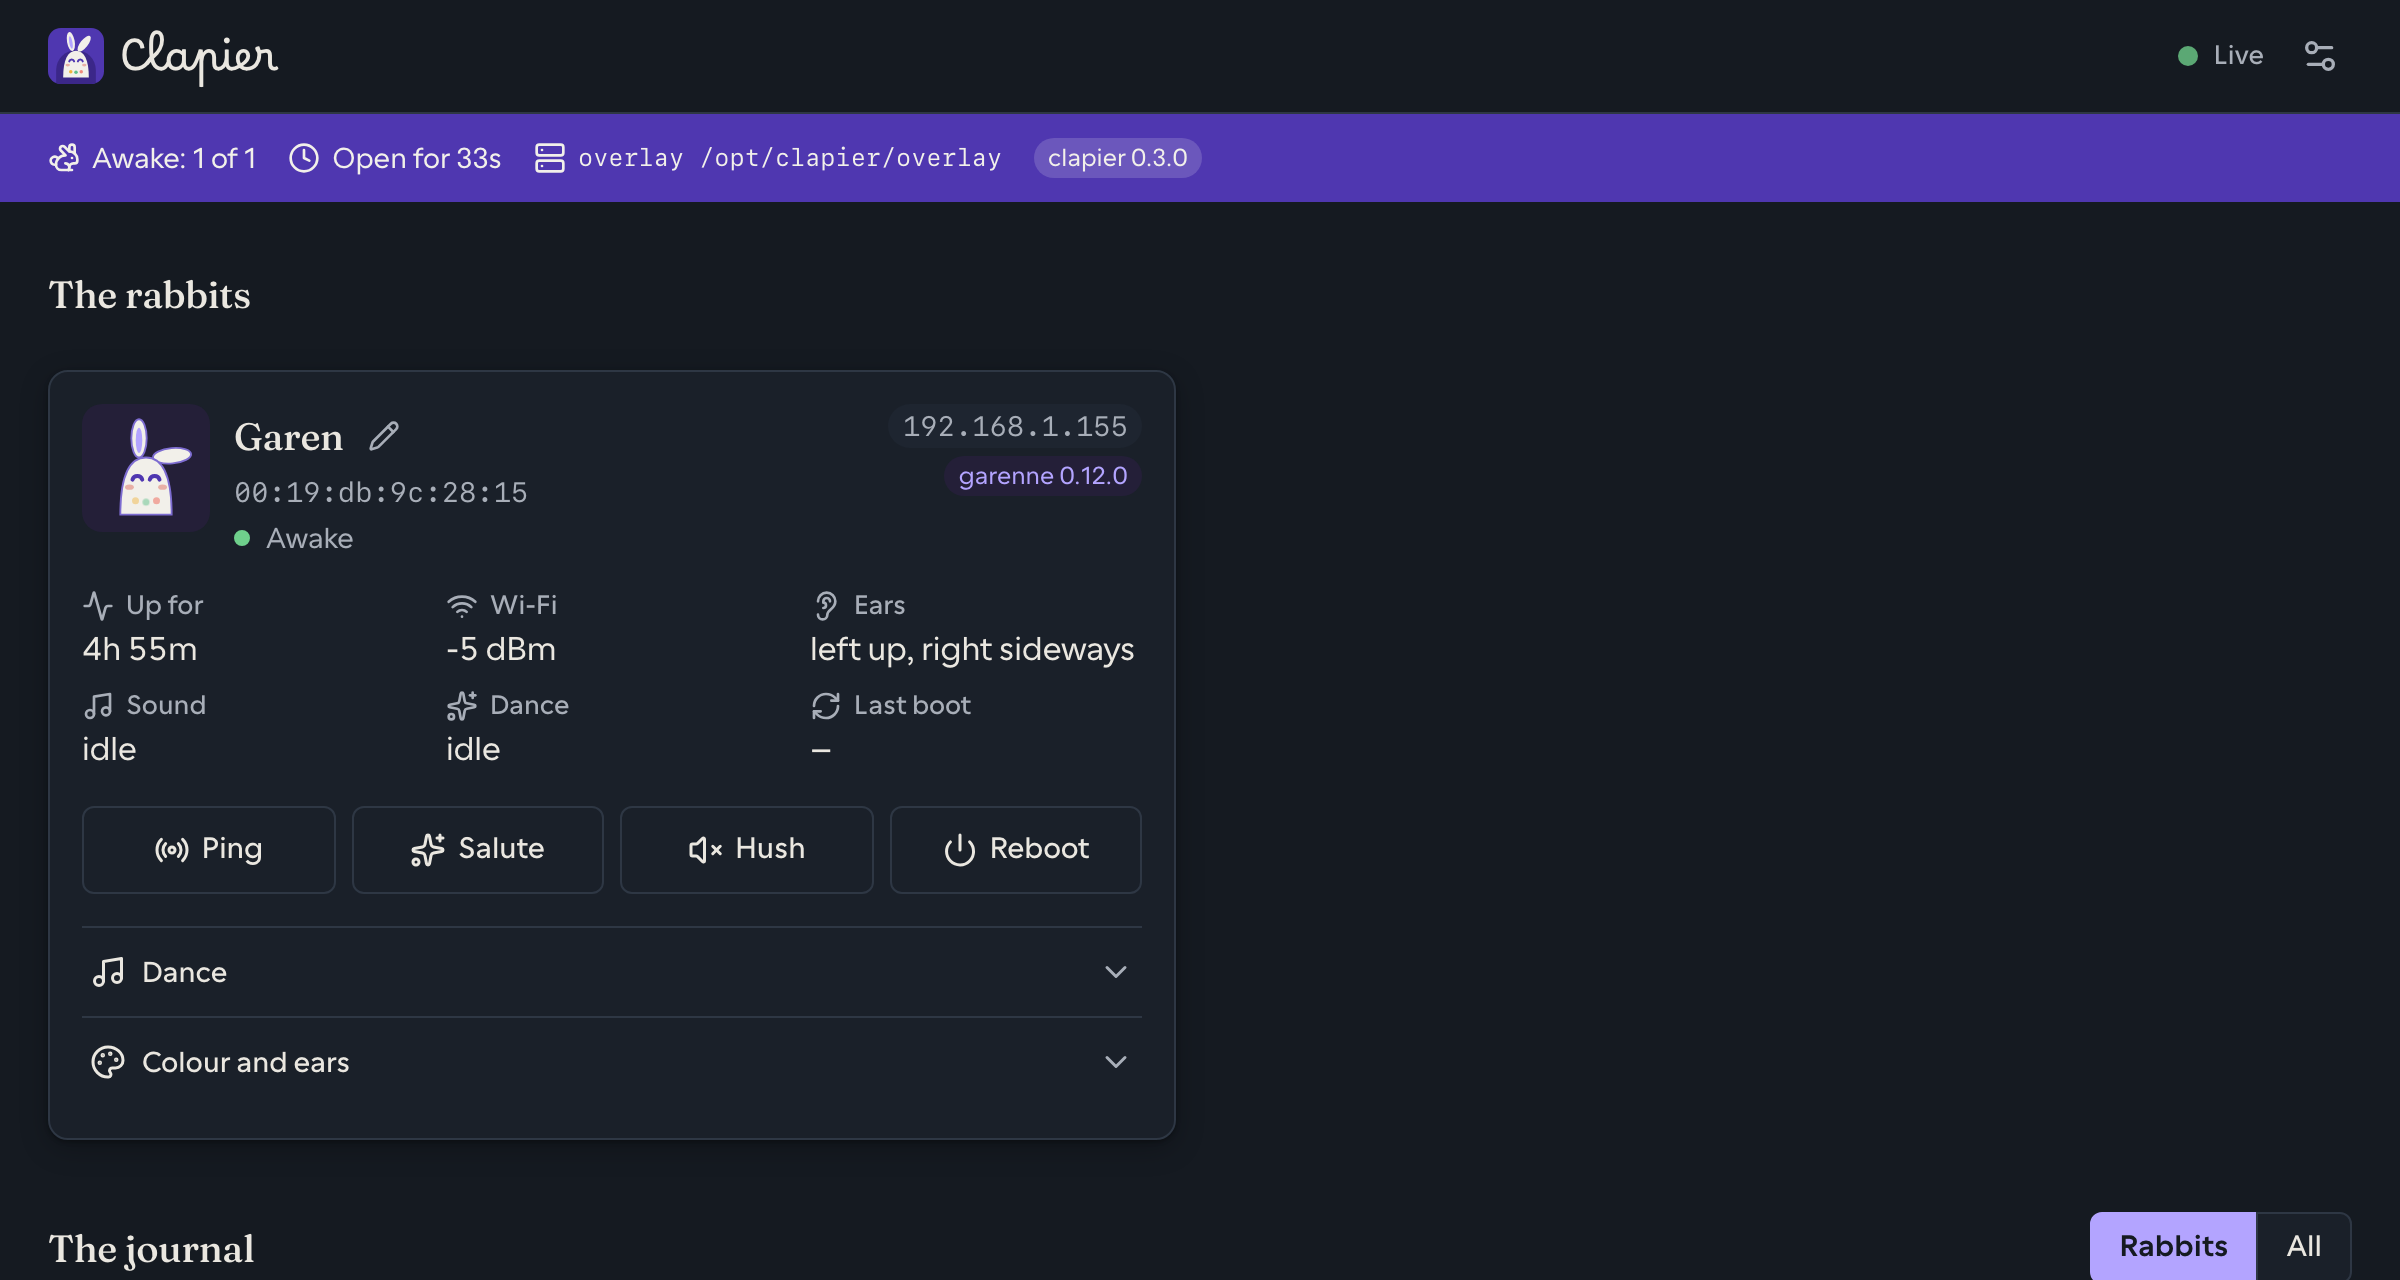
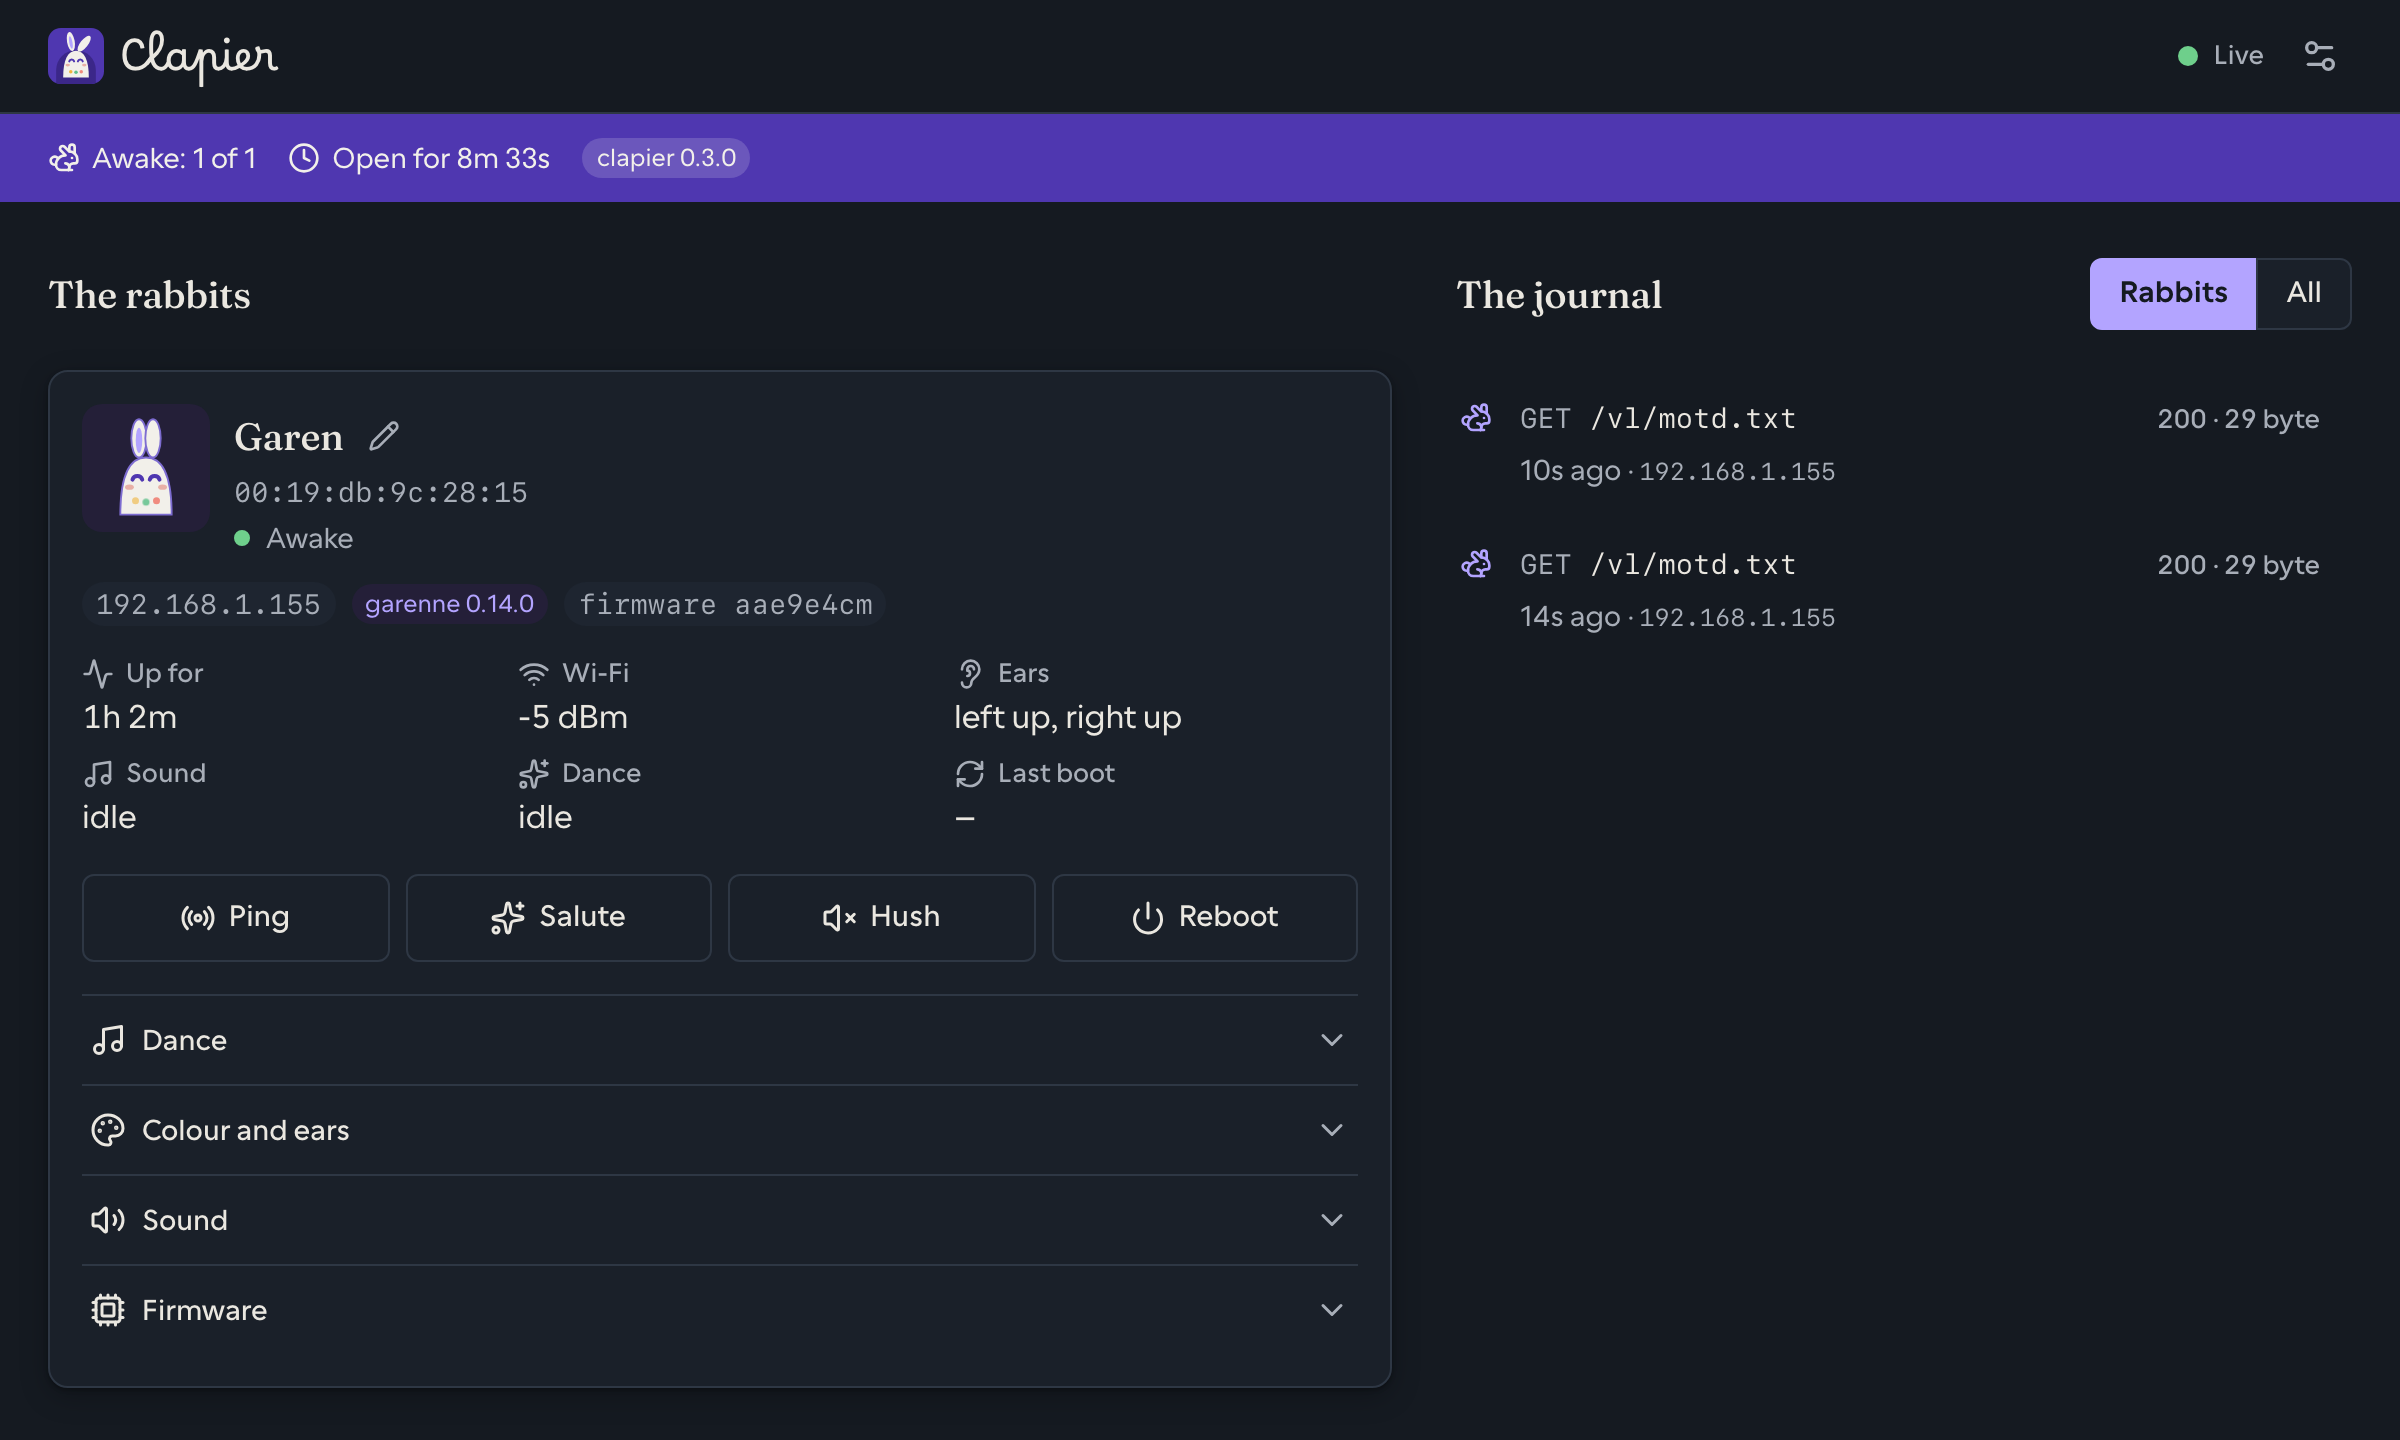
docs: the README, whole, and its screenshots
What the burrow does now: the web app section by section, firmware over
the air (from the tile, and by hand), moving a rabbit to another
clapier, the rabbit remote's verbs, and where the burrow keeps its
files. Fresh screenshots of the two-column screen, light and dark.

diff --git a/README.md b/README.md
@@ -7,38 +7,150 @@
 
 The rabbits' home: one binary serves a Nabaztag:tag its brain, its
 sounds and its dances, and gives you a web app to watch and drive the
-whole burrow. Pairs with the [uplg/nabgcc](https://github.com/uplg/nabgcc)
-`wpa23-gtk` firmware, which teaches the 2006 rabbit WPA2/WPA3.
+whole burrow: gestures, colours, ears, sounds, and its firmware,
+updated over the network it already lives on. Pairs with the
+[uplg/nabgcc](https://github.com/uplg/nabgcc) firmware, which teaches
+the 2006 rabbit WPA2/WPA3.
 
 <picture>
   <source media="(prefers-color-scheme: dark)" srcset="docs/screenshot-dark.png">
-  <img src="docs/screenshot.png" alt="Clapier's web app: Garen, awake, its state and its gestures">
+  <img src="docs/screenshot.png" alt="Clapier's web app: Garen, awake, its state, its gestures and the journal of what it asked">
 </picture>
 
 ## Install
 
 Grab the [latest release](https://github.com/synthe-se/clapier/releases): Linux
 (x86_64, aarch64, ARMv6 for the Raspberry Pi 1), macOS and Windows
-archives carry the server, `garenne.bin` (the rabbit's brain), the
-firmware flasher, the rabbit remote and the choreography encoder.
-Nothing else to install.
+archives carry the server, `garenne.bin` (the rabbit's brain), a
+firmware image, the firmware flasher, the rabbit remote and the
+choreography encoder. Nothing else to install.
 
 1. **Flash once.** Head button + power: the rabbit opens a `NabaztagXX`
-   access point. Join it, run `./flash-nabaztag Nab-wpa23-gtk-*.sim`.
-   This rewrites the whole firmware and nothing sits behind it: keep
-   the power steady. A flash that went wrong is recovered over JTAG
+   access point. Join it, run `./flash-nabaztag Nab-*.sim`. This
+   rewrites the whole firmware and nothing sits behind it: keep the
+   power steady. A flash that went wrong is recovered over JTAG
    ([nabgcc's guide](https://github.com/uplg/nabgcc/blob/master/docs/jtag-debrick.md)).
+   It is the last time the access point is needed.
 2. **Serve.** `./clapier --bind 0.0.0.0:80 --overlay overlay` on any
    always-on box (port 80 on Linux: root, or
    `sudo setcap 'cap_net_bind_service=+ep' ./clapier`).
 3. **Point the rabbit.** Config mode again, browse to
    `http://192.168.0.1`: pick your network, WPA2, your key, and your
-   server's IP under "Advanced configuration". On its first boot fetch
+   server's address (`192.168.1.10/vl`). On its first boot fetch
    clapier adopts it: `garenne.bin` lands in `overlay/rabbits/<mac>/`.
 4. **Open `http://<server>/`.** Name your rabbit, make it dance.
 
 The rabbit refetches its bytecode at every boot: a bad `bc.jsp` costs a
 power cycle, never a brick.
+
+## The web app
+
+One screen, in French or English, light or dark, from a phone to a wide
+display. Each rabbit is a tile: its name, whether it is awake, its
+address, the garenne it runs and the firmware build under it, then what
+it last said about itself (uptime, Wi-Fi, ears, sound, dance). Beside
+it, the journal: what the rabbits asked the burrow for, newest first.
+
+| | |
+|---|---|
+| **Gestures** | Ping, salute, hush, reboot (behind a confirmation). |
+| **Dance** | Any `.chor` of the burrow, or one composed on the spot. |
+| **Colour and ears** | Eight colours for its belly. Ears on two sliders, with a rabbit that shows where they will stand before anything is sent, and three poses one tap away. |
+| **Sound** | Every MP3 of the burrow, a volume in percent, and an MP3 dropped from the browser (4 MB at most). |
+| **Firmware** | Drop a `.sim`, have the rabbit check it, flash it. |
+
+**Ears that agree on "up".** No two ears have their encoder's zero at
+the same place, so position 0 can mean one ear up and the other folded.
+Bring both straight up with the sliders once, press *Both ears are up
+now*: clapier keeps that reference for this rabbit, and from then on 0
+is up for both, in what the app draws, says and asks.
+
+**Sounds.** The rabbit streams an MP3 as it is; nothing is converted on
+the way. Its 2006 decoder is happiest with mono, 32 kHz, constant
+bitrate.
+
+## Firmware over the air
+
+Past the first flash, a rabbit running garenne updates its firmware
+from where it sits, no config mode and no access point:
+
+1. In the rabbit's tile, **Firmware**, add a `.sim` file. Clapier
+   decodes it, keeps only what really is a firmware, and serves it from
+   `overlay/common/vl/fw/`.
+2. **Check**: the rabbit fetches the image and verifies it, and writes
+   nothing. The verdict shows in the tile.
+3. **Flash**, behind a confirmation: the same road, then the write. The
+   rabbit goes dark for about forty seconds and comes back on the new
+   build.
+
+Nothing is written unless the transfer ended well, exactly the announced
+number of bytes arrived, they open on the ARM vectors every firmware
+carries, they fit below the config sector, and their checksum is the one
+clapier computed from the file it serves. There is still no bootloader
+behind a flash: do not unplug the rabbit during those seconds, and keep
+the JTAG guide within reach for a firmware that turns out not to boot.
+
+The tile names the build a rabbit runs on when its firmware says so
+(nabgcc's `portal-ui` line and later stamp it; older images show
+nothing and update all the same).
+
+By hand, the same thing in two commands:
+
+```console
+$ ./flash-nabaztag Nab-new.sim --export-bin overlay/common/vl/fw/nab-new.bin
+$ ./garenne-ctl --ip 192.168.1.155 fwcheck /vl/fw/nab-new.bin 105088 40490399
+```
+
+`flash-nabaztag` prints the exact verbs, `fwcheck` then `fw`.
+
+## Moving house
+
+A rabbit follows its server's address, kept in its config sector. To
+move it to another clapier without the config portal:
+
+```console
+$ ./garenne-ctl --ip 192.168.1.155 server 192.168.1.10/vl
+```
+
+The rabbit first fetches its own bytecode from the candidate. Only if
+that works does it rewrite the address and reboot onto its new home; a
+wrong address changes nothing.
+
+## The rabbit remote
+
+`garenne-ctl` speaks to a rabbit's control port (UDP 9998, LAN only);
+the web app sends the same verbs through clapier's gate.
+
+| Verb | |
+|---|---|
+| `ping`, `conf`, `heap` | who it is, its config sector's identity card, its memory |
+| `reboot`, `reassoc` | restart; scan and associate again |
+| `color RRGGBB`, `led N RRGGBB` | its breathing colour; one LED |
+| `ears R L` | both ears, 0 to 16 around the turn |
+| `play /vl/…`, `stop`, `vol N` | stream an MP3; hush; attenuation, 40 loudest to 254 |
+| `dance`, `chor /vl/…` | the salute; a choreography of the burrow |
+| `server IP[:PORT][/PATH]` | move to another clapier, once it proved it serves the bytecode |
+| `fwcheck`, `fw` `/vl/… LEN ADLER32` | verify a firmware image; verify and flash it |
+| `listen` | not a verb: follow the rabbits' log broadcasts |
+
+The rabbit also answers on its own: `http://<rabbit>/status` is its
+state, line by line.
+
+## The burrow's files
+
+```
+overlay/common/vl/            what every rabbit may ask for
+overlay/common/vl/fw/         firmware images (raw, as the rabbits fetch them)
+overlay/common/vl/sound/      MP3s added from the web app
+overlay/rabbits/<mac>/vl/     one rabbit's own: its bc.jsp, its choreographies
+overlay/rabbits/<mac>/name    what you called it
+overlay/rabbits/<mac>/ears-up where its ears stand when they are up
+```
+
+A rabbit's own file wins over the tribe's, which wins over the base
+tree (`--root`, the original Violet tree if you serve one). The JSON
+behind the web app lives under `/api`, its files under `/assets`;
+`/health` answers `ok`.
 
 ## From source
 
@@ -62,7 +174,7 @@ cuts a release.
 ## Architecture
 
 ```
-crates/clapier         the server: CLI, router, JSON API, fleet listener
+crates/clapier         the server: CLI, router, JSON API, fleet listener, the rabbit remote
 crates/clapier-vl      the file service in the rabbit's 2006 HTTP dialect
 crates/clapier-pages   the embedded web app, directory listings
 crates/clapier-fleet   the fleet register, learned from the wire
